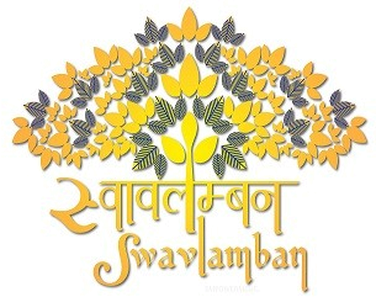
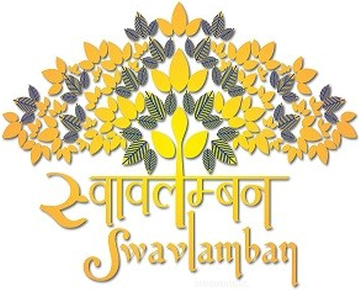
style(brand): grow the swavlamban mark, nudge the captions, drop the block
Three asks in one pass:

- Captions shift right by 8px (`pl-2` on the span, not on the image). The
  marks are symmetric emblems whose visual weight sits inboard of their
  left edge, so a caption flush at x=0 reads as sitting left of its own
  logo. Padding the text leaves the artwork where it is.

- Block drops further down: `mt-14` -> `mt-16`.

- Swavlamban grows without touching ALIMCO. The shared box goes
  `h-20` -> `h-24`, which would scale both, so alimco-mark.png is
  re-canvassed 456x284 -> 456x341 to absorb exactly the difference: its
  ink stays 246px tall and renders at 69.3px either way. swavlamban-mark
  is also cropped from its alpha>0 bounds to its solid bounds
  (376x297 -> 359x290), dropping a faint fringe of 10 columns left, 7
  right, 5 top, 2 bottom.

Measured after: Swavlamban 101x80 -> 119x96, ALIMCO 129x80 -> 128x96 with
its ink height unchanged.

diff --git a/apps/web/src/components/login/BrandAttribution.tsx b/apps/web/src/components/login/BrandAttribution.tsx
@@ -38,17 +38,22 @@ export function BrandAttribution({
     // is kept at 32px rather than 48: across a wide gap the eye compares the
     // two marks' centres of mass instead of their left edges, and the two have
     // very different shapes (a symmetric emblem vs a wide wordmark).
-    <div className="mt-14 flex items-start gap-8">
+    <div className="mt-16 flex items-start gap-8">
       {rows.map((row) => (
         <div key={`${row.label}-${row.name}`} className="flex flex-col items-start gap-2">
-          <span className="text-xs font-medium tracking-wide text-ink-400">{row.label}</span>
+          {/* `pl-2` nudges the caption right off the box edge: the marks are
+              symmetric emblems whose visual weight sits inboard of their left
+              edge, so a caption flush at x=0 reads as sitting left of its own
+              logo. Padding the text, not the image, keeps the artwork where it
+              is. */}
+          <span className="pl-2 text-xs font-medium tracking-wide text-ink-400">{row.label}</span>
           {row.logo ? (
             <Image
               src={row.logo}
               alt={row.name}
               width={352}
               height={160}
-              className="h-20 w-auto object-contain object-left"
+              className="h-24 w-auto object-contain object-left"
             />
           ) : (
             <span className="text-sm font-semibold text-ink-900">{row.name}</span>
